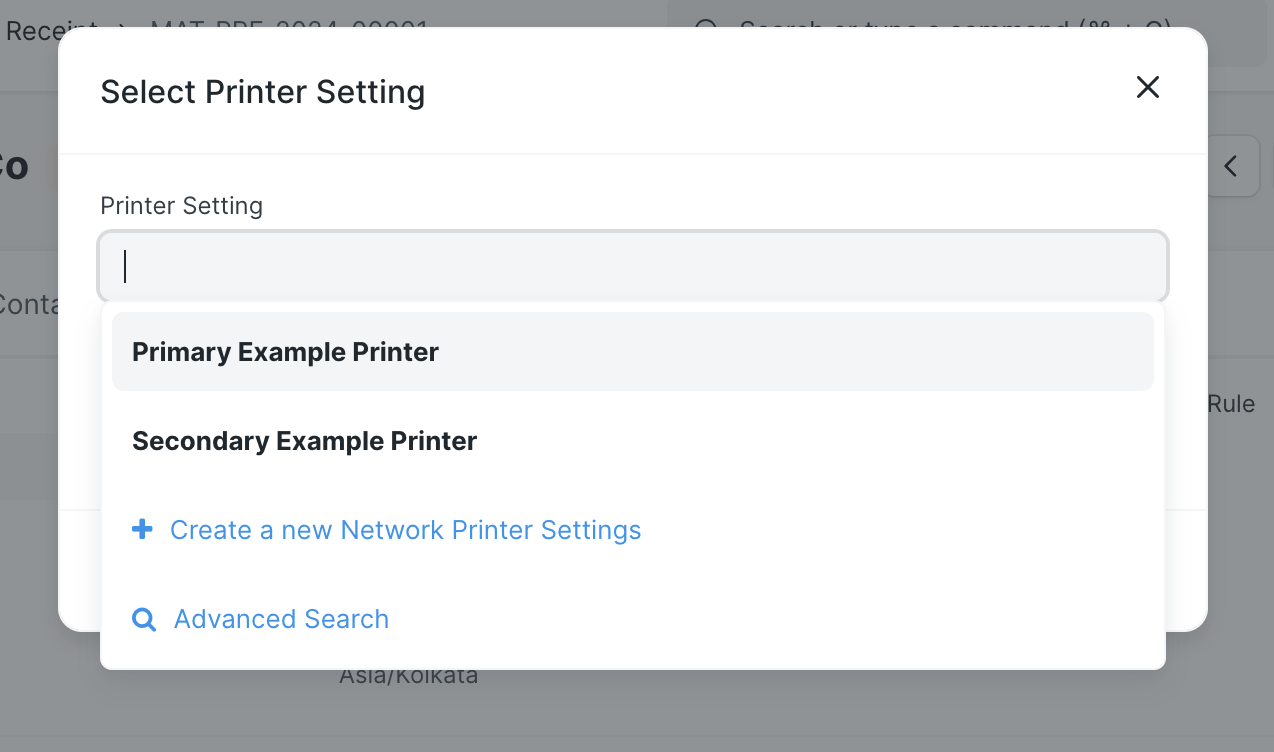
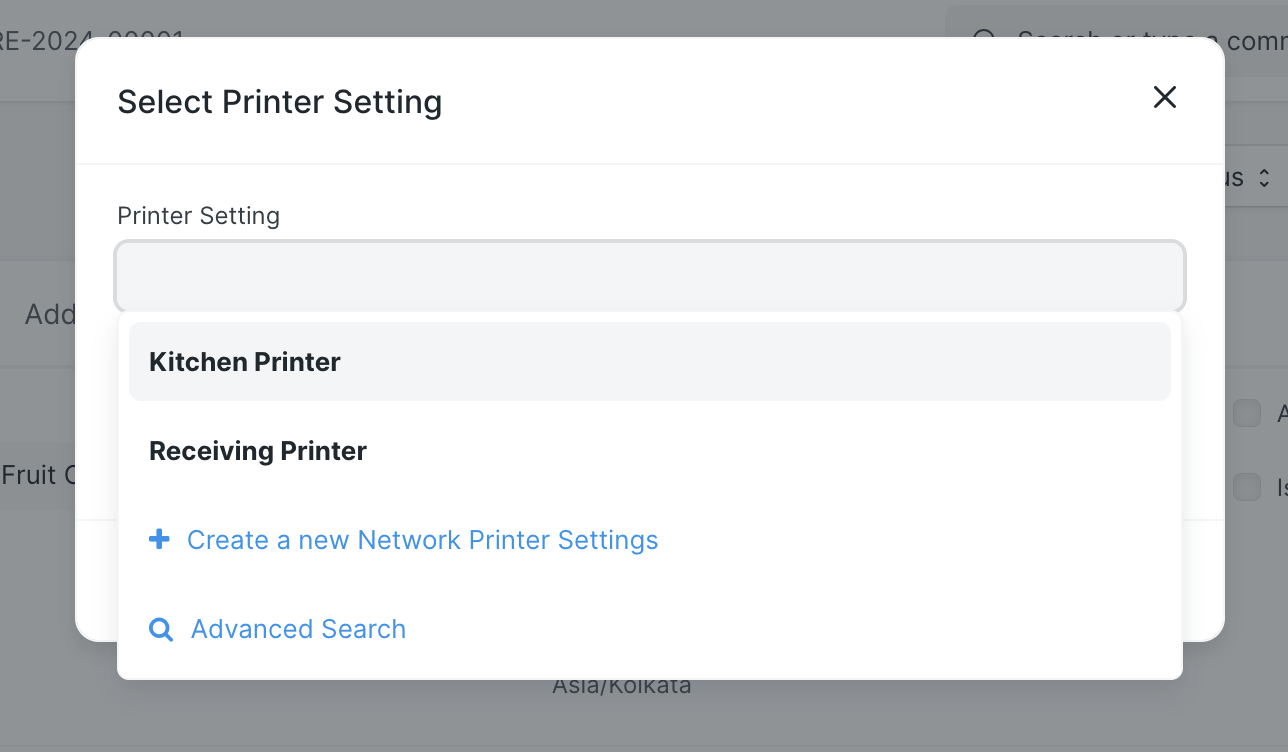
docs: update network printer names, screen shot

diff --git a/beam/tests/setup.py b/beam/tests/setup.py
@@ -575,13 +575,14 @@ def create_purchase_receipt_for_received_qty_test(settings):
 
 def create_network_printer_settings(settings):
 	printer_settings = [
-		{"name": "Primary Example Printer", "server_ip": "localhost", "port": 8888},
-		{"name": "Secondary Example Printer", "server_ip": "localhost", "port": 9999},
+		{"name": "Receiving Printer", "server_ip": "localhost", "port": 8888},
+		{"name": "Kitchen Printer", "server_ip": "localhost", "port": 9999},
 	]
 	for ps in printer_settings:
-		nps = frappe.new_doc("Network Printer Settings")
-		nps.name = ps["name"]
-		nps.server_ip = ps["server_ip"]
-		nps.port = ps["port"]
-		nps.printer_name = ps["name"]
-		nps.save()
+		if not frappe.db.exists("Network Printer Settings", ps):
+			nps = frappe.new_doc("Network Printer Settings")
+			nps.name = ps["name"]
+			nps.server_ip = ps["server_ip"]
+			nps.port = ps["port"]
+			nps.printer_name = ps["name"]
+			nps.save()
